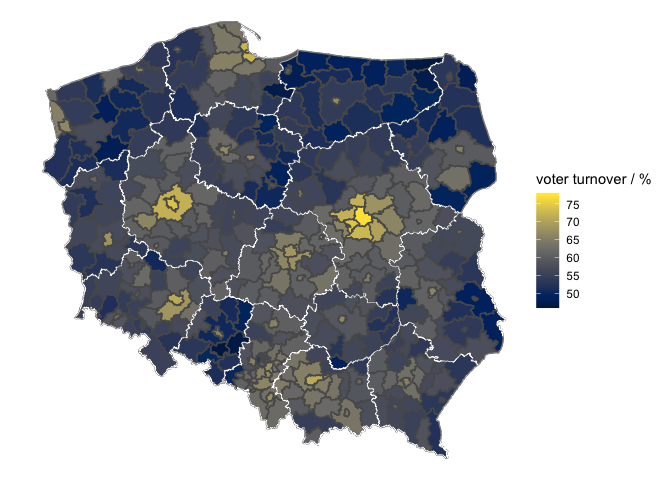
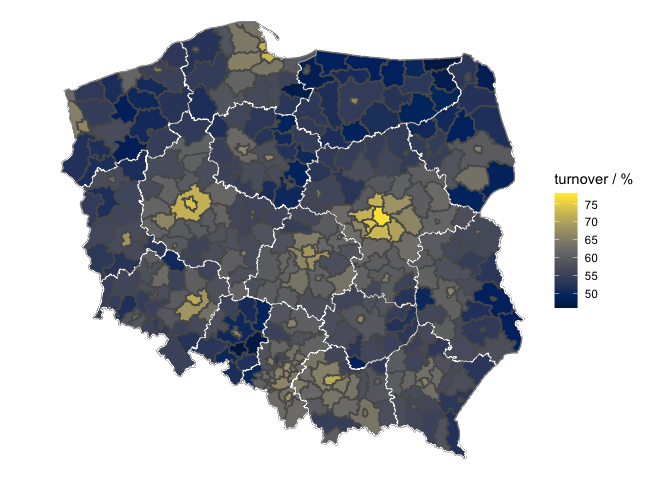
added urban vs rural turnover

Changed region(s): [[0.0625, 0.0312, 0.9688, 0.9688]]

diff --git a/R/turnover.md b/R/turnover.md
@@ -11,4 +11,14 @@ By powiat
 
 ![](turnover_files/figure-markdown_strict/unnamed-chunk-4-1.png)
 
-Ddd
+Urban vs rural by voivodeship
+
+    results_station_clean %>%
+      filter(typ_obszaru %in% c("miasto", "wieś")) %>%
+      ggplot(aes(x=wojewodztwo, y=(wydane_karty / wyborcow_uprawnionych * 100), fill = typ_obszaru)) +
+      stat_boxplot(outlier.shape = NA) +
+      labs(y="turnover / %", x="voivodeship") +
+      scale_fill_discrete(name = "area type", labels = c("urban", "rural")) +
+      theme(axis.text.x = element_text(angle = 45, hjust = 1))
+
+![](turnover_files/figure-markdown_strict/unnamed-chunk-5-1.png)
